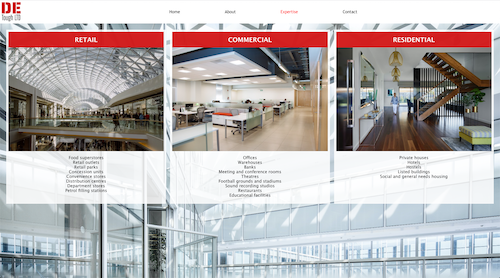
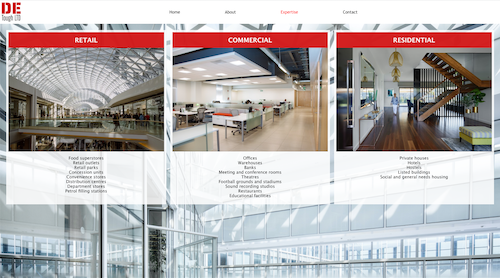
Add padding to main

diff --git a/style.css b/style.css
@@ -63,8 +63,7 @@ nav a:hover {
 
 main {
 	color: #1c1c1c;
-	height: 100vh;
-	padding: 3%;
+	padding: 5%;
 	display: flex;
 	flex-direction: column;
 	justify-content: space-between;
@@ -72,7 +71,6 @@ main {
 }
 
 .top {
-	margin-top: 3%;
 	display: flex;
 	flex-direction: column;
 	align-items: flex-start; 
